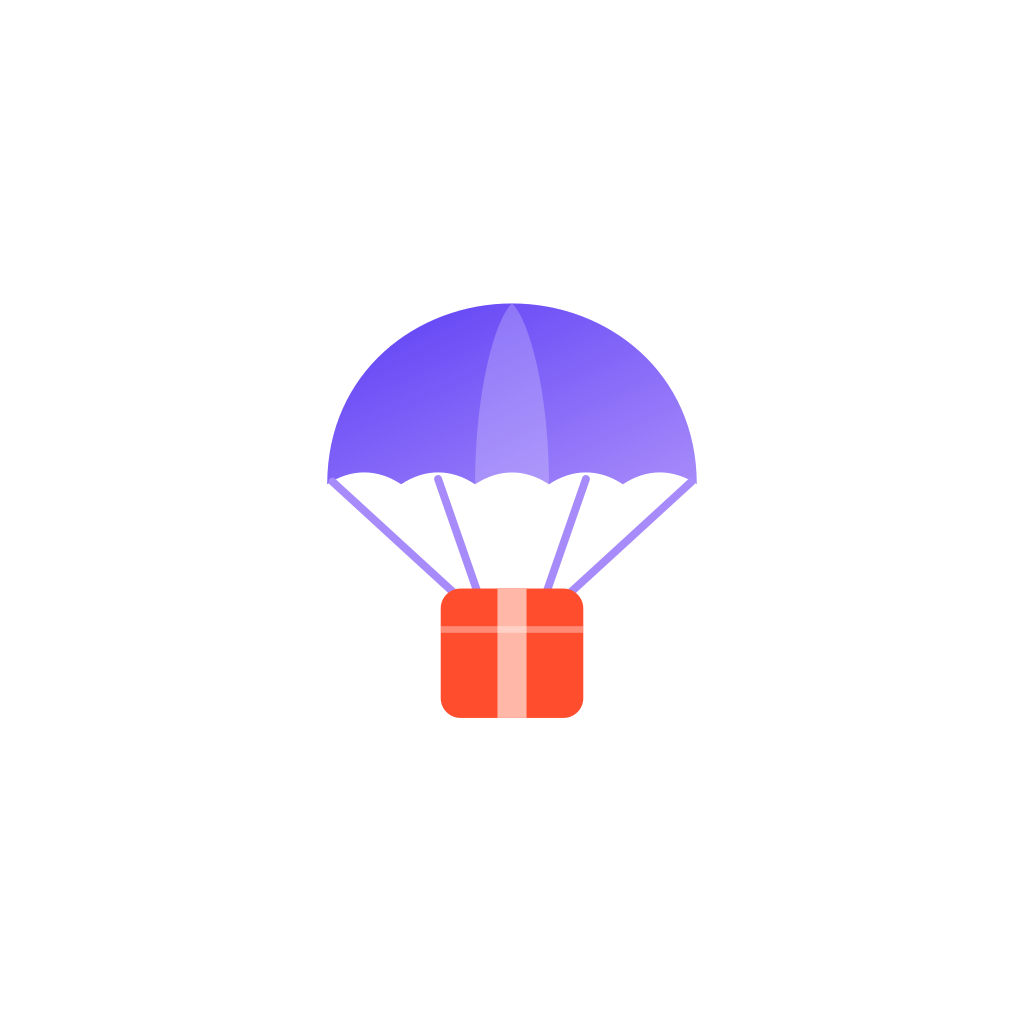
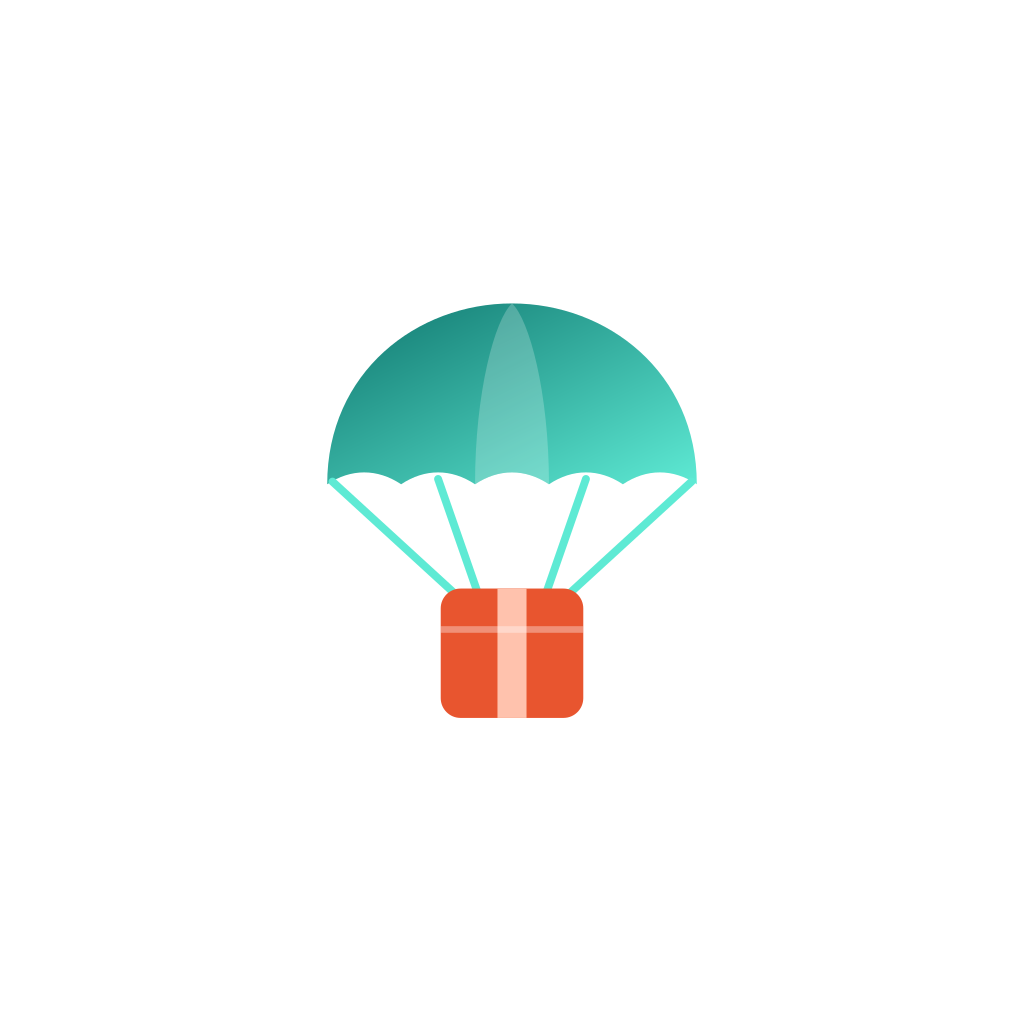
New theme "Lagoon": deep teal + coral, one colour for every store (web, app, emails)
- Replaces Midnight Luxe violet. Teal #0f766e for buttons and links (5.5:1 with
  white text), #0e8a7f in dark mode, coral #e8552f for deals and highlights,
  slightly cooler off-white background.
- The accent no longer changes per store (was violet/pink/orange): selected store
  chips, heroes and buttons use the site teal; store names keep their own text
  colours.
- Logo, favicon, share images, app icon/splash (regenerated), push notification
  colour, emails, invoices and the admin panel use the new colours.

Claude-Session: https://claude.ai/code/session_01Jsozfo5BGYmT5n8wVvHrv9

Changed region(s): [[0.3125, 0.2812, 0.6875, 0.5938]]

diff --git a/apps/mobile/src/theme/index.tsx b/apps/mobile/src/theme/index.tsx
@@ -4,22 +4,21 @@ import AsyncStorage from "@react-native-async-storage/async-storage";
 import * as SystemUI from "expo-system-ui";
 import type { StoreMode } from "@/lib/types";
 
-// Brand tokens mirror apps/web/src/app/globals.css ("Midnight Luxe").
-// BRAND is the primary interactive colour (electric violet); BRAND_INK is the
-// near-black brand ink; CORAL is the signal colour (discount badges, parcel, highlights).
-export const BRAND = "#5b3df5";
-export const BRAND_2 = "#a78bfa";
+// Brand tokens mirror apps/web/src/app/globals.css ("Lagoon").
+// BRAND is the primary interactive colour (deep teal); BRAND_INK is the near-black brand ink;
+// CORAL is the signal colour (deals, parcel, highlights). One accent for every store.
+export const BRAND = "#0f766e";
+export const BRAND_2 = "#5eead4";
+export const BRAND_DARK = "#0e8a7f";
 export const BRAND_INK = "#111114";
-export const CORAL = "#ff4d2e";
+export const CORAL = "#e8552f";
 
 type Accent = { accent: string; accent2: string; accentDark: string; heroA: string; heroB: string; heroADark: string };
 
-export const ACCENTS: Record<StoreMode, Accent> = {
-  all: { accent: BRAND, accent2: BRAND_2, accentDark: "#7c6cff", heroA: "#0b0b0f", heroB: BRAND, heroADark: "#16132b" },
-  amazon: { accent: BRAND, accent2: BRAND_2, accentDark: "#7c6cff", heroA: "#0b0b0f", heroB: BRAND, heroADark: "#16132b" },
-  flipkart: { accent: "#e11d74", accent2: "#fb7185", accentDark: "#f0468f", heroA: "#1a0b14", heroB: "#e11d74", heroADark: "#1a0b14" },
-  myntra: { accent: "#ea580c", accent2: "#fdba74", accentDark: "#fb7d3c", heroA: "#1f0c04", heroB: "#ea580c", heroADark: "#1f0c04" },
-};
+const LAGOON: Accent = { accent: BRAND, accent2: BRAND_2, accentDark: BRAND_DARK, heroA: "#0b2e2c", heroB: BRAND, heroADark: "#0a2321" };
+
+/** Same accent in every store mode: stores are told apart by their name, not by a colour change. */
+export const ACCENTS: Record<StoreMode, Accent> = { all: LAGOON, amazon: LAGOON, flipkart: LAGOON, myntra: LAGOON };
 
 /**
  * Store-name text tokens (StoreName): text-safe shades of each store's own accent. Both gradient stops pass
@@ -28,30 +27,30 @@ export const ACCENTS: Record<StoreMode, Accent> = {
  */
 export type StoreTextTokens = { a: string; b: string; ring: string };
 export const STORE_TEXT: Record<StoreMode, { light: StoreTextTokens; dark: StoreTextTokens; fill: [string, string] }> = {
-  all: { light: { a: "#5b3df5", b: "#c0301a", ring: "#5b3df5" }, dark: { a: "#9a8cff", b: "#ff7a5c", ring: "#7c6cff" }, fill: ["#5b3df5", "#c0301a"] },
+  all: { light: { a: BRAND, b: BRAND, ring: BRAND }, dark: { a: BRAND_2, b: BRAND_2, ring: BRAND_DARK }, fill: [BRAND, BRAND] },
   // Store names in each provider's brand colours (owner's decision): Amazon ink + orange, Flipkart blue + yellow, Myntra pink + orange.
-  amazon: { light: { a: "#232f3e", b: "#c45500", ring: "#ff9900" }, dark: { a: "#ff9900", b: "#ffb84d", ring: "#ff9900" }, fill: ["#232f3e", "#232f3e"] },
-  flipkart: { light: { a: "#2874f0", b: "#1a56c4", ring: "#2874f0" }, dark: { a: "#5b9bff", b: "#ffe11b", ring: "#2874f0" }, fill: ["#2874f0", "#2874f0"] },
-  myntra: { light: { a: "#d6194f", b: "#c2410c", ring: "#ff3f6c" }, dark: { a: "#ff6b8e", b: "#ffa45c", ring: "#ff3f6c" }, fill: ["#d6194f", "#d6194f"] },
+  amazon: { light: { a: "#232f3e", b: "#c45500", ring: "#ff9900" }, dark: { a: "#ff9900", b: "#ffb84d", ring: "#ff9900" }, fill: [BRAND, BRAND] },
+  flipkart: { light: { a: "#2874f0", b: "#1a56c4", ring: "#2874f0" }, dark: { a: "#5b9bff", b: "#ffe11b", ring: "#2874f0" }, fill: [BRAND, BRAND] },
+  myntra: { light: { a: "#d6194f", b: "#c2410c", ring: "#ff3f6c" }, dark: { a: "#ff6b8e", b: "#ffa45c", ring: "#ff3f6c" }, fill: [BRAND, BRAND] },
 };
 
 const light = {
   dark: false,
-  bg: "#f7f7f4",
+  bg: "#f6f7f5",
   surface: "#ffffff",
-  surface2: "#f0efe9",
+  surface2: "#eef1ee",
   ink: "#0b0b0f",
   ink2: "#55555f",
   ink3: "#9a9aa3",
-  line: "#e7e5de",
+  line: "#e3e7e3",
   good: "#0e9f6e",
   warn: "#d97706",
   bad: "#e5363d",
   brand: BRAND,
   brandInk: BRAND_INK,
   coral: CORAL,
-  shadow: "#14103c",
-  skeleton: "#ebe9e2",
+  shadow: "#0b2e2c",
+  skeleton: "#e7ebe7",
   overlay: "rgba(11,11,15,0.45)",
 };
 
@@ -69,7 +68,7 @@ const dark: Palette = {
   good: "#22c08a",
   warn: "#f59e0b",
   bad: "#f87171",
-  brand: "#7c6cff",
+  brand: BRAND_DARK,
   brandInk: "#f4f4f6",
   coral: CORAL,
   shadow: "#000000",
@@ -135,7 +134,7 @@ export function withAlpha(hex: string, alpha: number) {
   return `rgba(${(n >> 16) & 255},${(n >> 8) & 255},${n & 255},${alpha})`;
 }
 
-export const radius = { sm: 12, md: 16, lg: 20, pill: 999 }; // lg = 20px card radius (Midnight Luxe)
+export const radius = { sm: 12, md: 16, lg: 20, pill: 999 }; // lg = 20px card radius
 
 /** Soft card shadow that works on both platforms. */
 export function shadow(c: Palette, level: 1 | 2 = 1) {

diff --git a/apps/web/src/app/globals.css b/apps/web/src/app/globals.css
@@ -3,27 +3,27 @@
 
 /* ---------- Skydrop Retail tokens ---------- */
 :root {
-  /* Midnight Luxe: warm off-white, near-black ink, electric violet. */
-  --bg: #f7f7f4;
+  /* Lagoon: soft cool off-white, near-black ink, deep teal for actions, coral for deals. One colour for every store. */
+  --bg: #f6f7f5;
   --surface: #ffffff;
-  --surface-2: #f0efe9;
+  --surface-2: #eef1ee;
   --ink: #0b0b0f;
   --ink-2: #55555f;
   --ink-3: #9a9aa3;
-  --line: #e7e5de;
+  --line: #e3e7e3;
   --good: #0e9f6e;
   --warn: #d97706;
   --bad: #e5363d;
   --brand: #111114; /* Skydrop Retail ink */
-  --brand-2: #ff4d2e; /* Skydrop signal coral */
+  --brand-2: #e8552f; /* Lagoon coral: deals and highlights */
 
-  /* Store-mode accent (overridden per store) */
-  --accent: #5b3df5;
-  --accent-2: #a78bfa;
+  /* Site accent (the same in every store mode) */
+  --accent: #0f766e;
+  --accent-2: #5eead4;
   --accent-ink: #ffffff;
   --accent-soft: color-mix(in srgb, var(--accent) 11%, transparent);
-  --hero-a: #0b0b0f;
-  --hero-b: #5b3df5;
+  --hero-a: #0b2e2c;
+  --hero-b: #0f766e;
 
   /* Crisp, corporate geometry: 8 / 12 / 16 radii, hairline rings instead of glows. */
   --radius-sm: 8px;
@@ -54,37 +54,16 @@
   --ink-3: #6b6b78;
   --line: #26262f;
   --brand: #f4f4f6;
-  --accent: #7c6cff;
-  --accent-2: #b4a7ff;
-  --hero-a: #16132b;
-  --hero-b: #5b3df5;
+  --accent: #0e8a7f;
+  --accent-2: #5eead4;
+  --hero-a: #0a2321;
+  --hero-b: #0e8a7f;
   --shadow-1: 0 0 0 1px var(--line), 0 1px 2px rgb(0 0 0 / 0.4);
   --shadow-2: 0 0 0 1px var(--line), 0 10px 28px -8px rgb(0 0 0 / 0.6);
   --glow: 0 1px 2px rgb(0 0 0 / 0.5);
 }
 
-[data-store="amazon"] {
-  --accent: #5b3df5;
-  --accent-2: #a78bfa;
-  --hero-a: #0b0b0f;
-  --hero-b: #5b3df5;
-}
-[data-store="flipkart"] {
-  --accent: #e11d74;
-  --accent-2: #fb7185;
-  --hero-a: #1a0b14;
-  --hero-b: #e11d74;
-}
-[data-store="myntra"] {
-  --accent: #ea580c;
-  --accent-2: #fdba74;
-  --hero-a: #1f0c04;
-  --hero-b: #ea580c;
-}
-
-[data-theme="dark"][data-store="amazon"], [data-theme="dark"] [data-store="amazon"] { --accent: #7c6cff; }
-[data-theme="dark"][data-store="flipkart"], [data-theme="dark"] [data-store="flipkart"] { --accent: #f0468f; }
-[data-theme="dark"][data-store="myntra"], [data-theme="dark"] [data-store="myntra"] { --accent: #fb7d3c; }
+/* Every store uses the site accent: stores are told apart by their name, not by a colour change. */
 
 @theme inline {
   --color-bg: var(--bg);

diff --git a/apps/web/src/app/p/[id]/opengraph-image.tsx b/apps/web/src/app/p/[id]/opengraph-image.tsx
@@ -5,7 +5,7 @@ import { priceBdt } from "@/lib/pricing";
 
 // Store chip in our own per-store gradient (same text-safe stops as StoreName); no third-party colours.
 const OG_FILL: Record<string, string> = {
-  amazon: "linear-gradient(100deg, #5b3df5, #9426c4)",
+  amazon: "linear-gradient(100deg, #0f766e, #9426c4)",
   flipkart: "linear-gradient(100deg, #c8185f, #b8361a)",
   myntra: "linear-gradient(100deg, #c2410c, #b4235a)",
 };
@@ -45,11 +45,11 @@ export default async function Image({ params }: { params: Promise<{ id: string }
   const p = await getProduct(decodeURIComponent(id));
   const brand = (
     <div style={{ display: "flex", alignItems: "center", gap: 14 }}>
-      <div style={{ width: 46, height: 46, borderRadius: 14, background: "#ff4d2e", display: "flex", alignItems: "center", justifyContent: "center", color: "#fff", fontSize: 28, fontWeight: 800 }}>
+      <div style={{ width: 46, height: 46, borderRadius: 14, background: "#e8552f", display: "flex", alignItems: "center", justifyContent: "center", color: "#fff", fontSize: 28, fontWeight: 800 }}>
         S
       </div>
       <div style={{ display: "flex", fontSize: 30, fontWeight: 800, color: "#0b0b0f" }}>
-        Skydrop<span style={{ color: "#ff4d2e", marginLeft: 8 }}>Retail</span>
+        Skydrop<span style={{ color: "#e8552f", marginLeft: 8 }}>Retail</span>
       </div>
     </div>
   );
@@ -109,7 +109,7 @@ export default async function Image({ params }: { params: Promise<{ id: string }
           <div style={{ display: "flex", alignItems: "flex-end", justifyContent: "space-between" }}>
             <div style={{ display: "flex", flexDirection: "column" }}>
               <div style={{ fontSize: 22, color: "#55555f", fontWeight: 600 }}>Delivered to Bangladesh</div>
-              <div style={{ fontSize: 64, fontWeight: 800, color: "#5b3df5" }}>{bdt(price)}</div>
+              <div style={{ fontSize: 64, fontWeight: 800, color: "#0f766e" }}>{bdt(price)}</div>
             </div>
             <div style={{ display: "flex", fontSize: 20, color: "#55555f", fontWeight: 600 }}>Price verified at checkout</div>
           </div>

diff --git a/apps/web/src/components/store/storename.css b/apps/web/src/components/store/storename.css
@@ -6,14 +6,14 @@
 .sn {
   --sn-shine: rgb(255 255 255 / 0.9);
 }
-.sn[data-store="all"] { --sn-a: #5b3df5; --sn-b: #c0301a; --sn-ring: #5b3df5; --sn-fill: linear-gradient(100deg, #5b3df5, #c0301a); }
-.sn[data-store="amazon"] { --sn-a: #232f3e; --sn-b: #c45500; --sn-ring: #ff9900; --sn-fill: #232f3e; }
-.sn[data-store="flipkart"] { --sn-a: #2874f0; --sn-b: #1a56c4; --sn-ring: #2874f0; --sn-fill: #2874f0; }
-.sn[data-store="myntra"] { --sn-a: #d6194f; --sn-b: #c2410c; --sn-ring: #ff3f6c; --sn-fill: #d6194f; }
+.sn[data-store="all"] { --sn-a: #0f766e; --sn-b: #0f766e; --sn-ring: #0f766e; --sn-fill: var(--accent); }
+.sn[data-store="amazon"] { --sn-a: #232f3e; --sn-b: #c45500; --sn-ring: #ff9900; --sn-fill: var(--accent); }
+.sn[data-store="flipkart"] { --sn-a: #2874f0; --sn-b: #1a56c4; --sn-ring: #2874f0; --sn-fill: var(--accent); }
+.sn[data-store="myntra"] { --sn-a: #d6194f; --sn-b: #c2410c; --sn-ring: #ff3f6c; --sn-fill: var(--accent); }
 
 /* dark theme (and tone="dark" for names sitting on deep store tints in light mode) */
 :where(:root[data-theme="dark"]) .sn:not([data-tone="light"])[data-store="all"],
-.sn[data-tone="dark"][data-store="all"] { --sn-a: #9a8cff; --sn-b: #ff7a5c; --sn-ring: #7c6cff; }
+.sn[data-tone="dark"][data-store="all"] { --sn-a: #5eead4; --sn-b: #5eead4; --sn-ring: #0e8a7f; }
 :where(:root[data-theme="dark"]) .sn:not([data-tone="light"])[data-store="amazon"],
 .sn[data-tone="dark"][data-store="amazon"] { --sn-a: #ff9900; --sn-b: #ffb84d; --sn-ring: #ff9900; }
 :where(:root[data-theme="dark"]) .sn:not([data-tone="light"])[data-store="flipkart"],

diff --git a/apps/mobile/src/lib/notifications.ts b/apps/mobile/src/lib/notifications.ts
@@ -96,11 +96,11 @@ export function timeAgo(iso: string, lang: Lang = "en", now = Date.now()) {
 
 /** Feather-friendly icon + color per notification type. */
 export const CHIP: Record<string, [string, string]> = {
-  order_placed: ["receipt", "#5b3df5"], payment_received: ["wallet", "#0e9f6e"], payment_failed: ["card", "#e5363d"],
-  payment_pending: ["clock", "#d97706"], order_verified: ["shield", "#5b3df5"], order_purchased: ["bag", "#5b3df5"],
+  order_placed: ["receipt", "#0f766e"], payment_received: ["wallet", "#0e9f6e"], payment_failed: ["card", "#e5363d"],
+  payment_pending: ["clock", "#d97706"], order_verified: ["shield", "#0f766e"], order_purchased: ["bag", "#0f766e"],
   order_india_hub: ["package", "#0891b2"], order_in_transit: ["plane", "#0891b2"], order_dhaka_hub: ["pin", "#0891b2"],
   order_out_for_delivery: ["truck", "#d97706"], order_delivered: ["check", "#0e9f6e"], order_cancelled: ["x", "#e5363d"],
   review_request: ["star", "#eab308"], points_expiring: ["tag", "#9333ea"], price_drop: ["tag", "#0e9f6e"],
-  back_in_stock: ["bolt", "#5b3df5"], cart_reminder_1h: ["cart", "#9333ea"], welcome: ["spark", "#5b3df5"],
+  back_in_stock: ["bolt", "#0f766e"], cart_reminder_1h: ["cart", "#9333ea"], welcome: ["spark", "#0f766e"],
   broadcast: ["volume-2", "#9333ea"], custom: ["info", "#55555f"],
 };

diff --git a/apps/web/src/components/Icon.tsx b/apps/web/src/components/Icon.tsx
@@ -104,13 +104,13 @@ export function Logo({ className }: { className?: string }) {
       <svg width="30" height="30" viewBox="0 0 32 32" aria-hidden="true">
         <defs>
           <linearGradient id="lg-sr" x1="0" y1="0" x2="1" y2="1">
-            <stop offset="0" stopColor="#5b3df5" />
-            <stop offset="1" stopColor="#a78bfa" />
+            <stop offset="0" stopColor="#0f766e" />
+            <stop offset="1" stopColor="#5eead4" />
           </linearGradient>
         </defs>
         <path d="M4 13a12 9 0 0 1 24 0z" fill="url(#lg-sr)" />
-        <path d="M5 13l8.5 8M27 13l-8.5 8M16 13v8" stroke="#5b3df5" strokeWidth="1.3" />
-        <rect x="11" y="20" width="10" height="9" rx="2.2" fill="#ff4d2e" />
+        <path d="M5 13l8.5 8M27 13l-8.5 8M16 13v8" stroke="#0f766e" strokeWidth="1.3" />
+        <rect x="11" y="20" width="10" height="9" rx="2.2" fill="#e8552f" />
         <path d="M11 23.5h10" stroke="#fff" strokeOpacity=".6" />
       </svg>
       <span className="leading-none">

diff --git a/apps/web/src/components/fulfilment/LiveMap.tsx b/apps/web/src/components/fulfilment/LiveMap.tsx
@@ -69,7 +69,7 @@ export function LiveMap({ tracking, onUpdate }: { tracking: Tracking; onUpdate?:
         const m = L.marker([start.lat, start.lng], { icon, keyboard: false }).addTo(map);
         m.bindTooltip(tr.t("lm.rider"));
         rider.current = m;
-        if (hub) L.circleMarker([hub.lat, hub.lng], { radius: 6, color: "#5b3df5" }).addTo(map).bindTooltip(hub.label);
+        if (hub) L.circleMarker([hub.lat, hub.lng], { radius: 6, color: "#0f766e" }).addTo(map).bindTooltip(hub.label);
         L.circleMarker([dest.lat, dest.lng], { radius: 7, color: "#16a34a" }).addTo(map).bindTooltip(tr.t("lm.area", { label: dest.label }));
         map.fitBounds([[start.lat, start.lng], [dest.lat, dest.lng]], { padding: [32, 32], maxZoom: 14 });
       })

diff --git a/apps/web/src/app/global-error.tsx b/apps/web/src/app/global-error.tsx
@@ -17,7 +17,7 @@ export default function GlobalError({ retry }: { error: unknown; retry: () => vo
           <button
             type="button"
             onClick={() => retry()}
-            style={{ marginTop: 20, minHeight: 44, padding: "0 20px", borderRadius: 12, border: 0, background: "#5b3df5", color: "#fff", fontWeight: 700 }}
+            style={{ marginTop: 20, minHeight: 44, padding: "0 20px", borderRadius: 12, border: 0, background: "#0f766e", color: "#fff", fontWeight: 700 }}
           >
             {t("common.tryAgain")}
           </button>

diff --git a/apps/web/src/components/money/money.css b/apps/web/src/components/money/money.css
@@ -38,7 +38,7 @@
   display: none; /* moving sheen retired */
   z-index: -1;
 }
-.gc-card[data-design="classic"] { background: linear-gradient(135deg, #0b0b0f, #5b3df5); }
+.gc-card[data-design="classic"] { background: linear-gradient(135deg, #0b0b0f, #0f766e); }
 .gc-card[data-design="eid"] { background: linear-gradient(135deg, #065f46, #10b981); }
 .gc-card[data-design="birthday"] { background: linear-gradient(135deg, #be185d, #f472b6); }
 .gc-card[data-design="thanks"] { background: linear-gradient(135deg, #b45309, #f59e0b); }

diff --git a/apps/mobile/src/theme/fonts.ts b/apps/mobile/src/theme/fonts.ts
@@ -1,4 +1,4 @@
-// Plus Jakarta Sans (Midnight Luxe brand font). React Native picks a font file per weight via fontFamily,
+// Plus Jakarta Sans (brand font). React Native picks a font file per weight via fontFamily,
 // so map the requested fontWeight to the matching loaded family. Falls back to the system font until loaded.
 import {
   PlusJakartaSans_400Regular,

diff --git a/apps/mobile/src/lib/push.ts b/apps/mobile/src/lib/push.ts
@@ -54,7 +54,7 @@ async function sendToken(): Promise<string | null> {
       name: "Order updates",
       importance: 6, // AndroidImportance.HIGH (heads-up banner)
       vibrationPattern: [0, 200, 120, 200],
-      lightColor: "#5b3df5",
+      lightColor: "#0f766e",
     });
   }
   const id = projectId();

diff --git a/apps/api/resources/views/emails/branded.blade.php b/apps/api/resources/views/emails/branded.blade.php
@@ -18,7 +18,7 @@
     body,table,td,a{-webkit-text-size-adjust:100%;-ms-text-size-adjust:100%}
     table,td{mso-table-lspace:0;mso-table-rspace:0}
     img{border:0;line-height:100%;outline:none;text-decoration:none;-ms-interpolation-mode:bicubic}
-    a{color:#5b3df5}
+    a{color:#0f766e}
     @media only screen and (max-width:620px){
         .container{width:100%!important}
         .px{padding-left:20px!important;padding-right:20px!important}
@@ -34,10 +34,10 @@
         .line{border-color:#26262f!important}
         .soft{background:#1b1b22!important}
         .foot{color:#8a8a96!important}
-        .lnk{color:#a78bfa!important}
+        .lnk{color:#5eead4!important}
         .hdr{background:#131318!important}
     }
-    [data-ogsc] .lnk{color:#a78bfa!important}
+    [data-ogsc] .lnk{color:#5eead4!important}
     [data-ogsc] .ink{color:#f4f4f6!important}
     [data-ogsc] .ink2{color:#a8a8b3!important}
 </style>
@@ -54,7 +54,7 @@
                 <td valign="middle">
                     <a href="{{ $webUrl }}" style="text-decoration:none">
                         <img src="{{ $logo }}" width="36" height="36" alt="" style="vertical-align:middle;border-radius:8px">
-                        <span style="font-size:18px;font-weight:800;color:#ffffff;vertical-align:middle;margin-left:8px;letter-spacing:-.2px">Skydrop <span style="color:#ff4d2e">Retail</span></span>
+                        <span style="font-size:18px;font-weight:800;color:#ffffff;vertical-align:middle;margin-left:8px;letter-spacing:-.2px">Skydrop <span style="color:#e8552f">Retail</span></span>
                     </a>
                 </td>
                 @if($admin)
@@ -67,7 +67,7 @@
         {{-- Card --}}
         <tr><td>
             <table role="presentation" width="100%" cellpadding="0" cellspacing="0" border="0" class="card" style="background:#ffffff;border:1px solid #e7e5de;border-radius:20px;overflow:hidden">
-                <tr><td style="height:4px;background:#5b3df5;background-image:linear-gradient(90deg,#5b3df5,#a78bfa 70%,#ff4d2e);font-size:0;line-height:0">&nbsp;</td></tr>
+                <tr><td style="height:4px;background:#0f766e;background-image:linear-gradient(90deg,#0f766e,#5eead4 70%,#e8552f);font-size:0;line-height:0">&nbsp;</td></tr>
                 <tr><td class="px" style="padding:28px 32px 8px">
                     <h1 class="h1 ink" style="margin:0 0 14px;font-size:24px;line-height:32px;font-weight:800;color:#0b0b0f;letter-spacing:-.3px">{{ $subject }}</h1>
                     @foreach($paragraphs as $p)
@@ -139,7 +139,7 @@
                         @case('links')
                             <tr><td class="px" style="padding:6px 32px 2px;font-size:13px">
                                 @foreach($block['links'] ?? [] as $l)
-                                    <a class="lnk" href="{{ $l['url'] }}" style="color:#5b3df5;font-weight:600;text-decoration:none;margin-right:16px">{{ $l['label'] }} &rarr;</a>
+                                    <a class="lnk" href="{{ $l['url'] }}" style="color:#0f766e;font-weight:600;text-decoration:none;margin-right:16px">{{ $l['label'] }} &rarr;</a>
                                 @endforeach
                             </td></tr>
                             @break
@@ -149,7 +149,7 @@
                 @if($cta)
                     <tr><td class="px btn" style="padding:18px 32px 30px">
                         <table role="presentation" cellpadding="0" cellspacing="0" border="0"><tr>
-                            <td style="border-radius:999px;background:#5b3df5">
+                            <td style="border-radius:999px;background:#0f766e">
                                 <a href="{{ $cta['url'] }}" style="display:inline-block;padding:13px 26px;font-size:15px;font-weight:700;color:#ffffff;text-decoration:none;border-radius:999px;text-align:center">{{ $cta['label'] }}</a>
                             </td>
                         </tr></table>
@@ -163,7 +163,7 @@
         {{-- Footer --}}
         <tr><td class="px foot" style="padding:22px 32px 8px;font-size:12px;line-height:19px;color:#7a7a85;text-align:center">
             @unless($admin)
-                <p style="margin:0 0 6px"><strong>{{ $t['help'] }}</strong> {{ $t['reply'] }} <a class="lnk" href="mailto:{{ $supportEmail }}" style="color:#5b3df5;text-decoration:none">{{ $supportEmail }}</a>@if($supportPhone) · {{ $supportPhone }}@endif</p>
+                <p style="margin:0 0 6px"><strong>{{ $t['help'] }}</strong> {{ $t['reply'] }} <a class="lnk" href="mailto:{{ $supportEmail }}" style="color:#0f766e;text-decoration:none">{{ $supportEmail }}</a>@if($supportPhone) · {{ $supportPhone }}@endif</p>
             @endunless
             <p style="margin:0 0 6px">{{ $address }}</p>
             @if($marketing && $unsubscribe)
